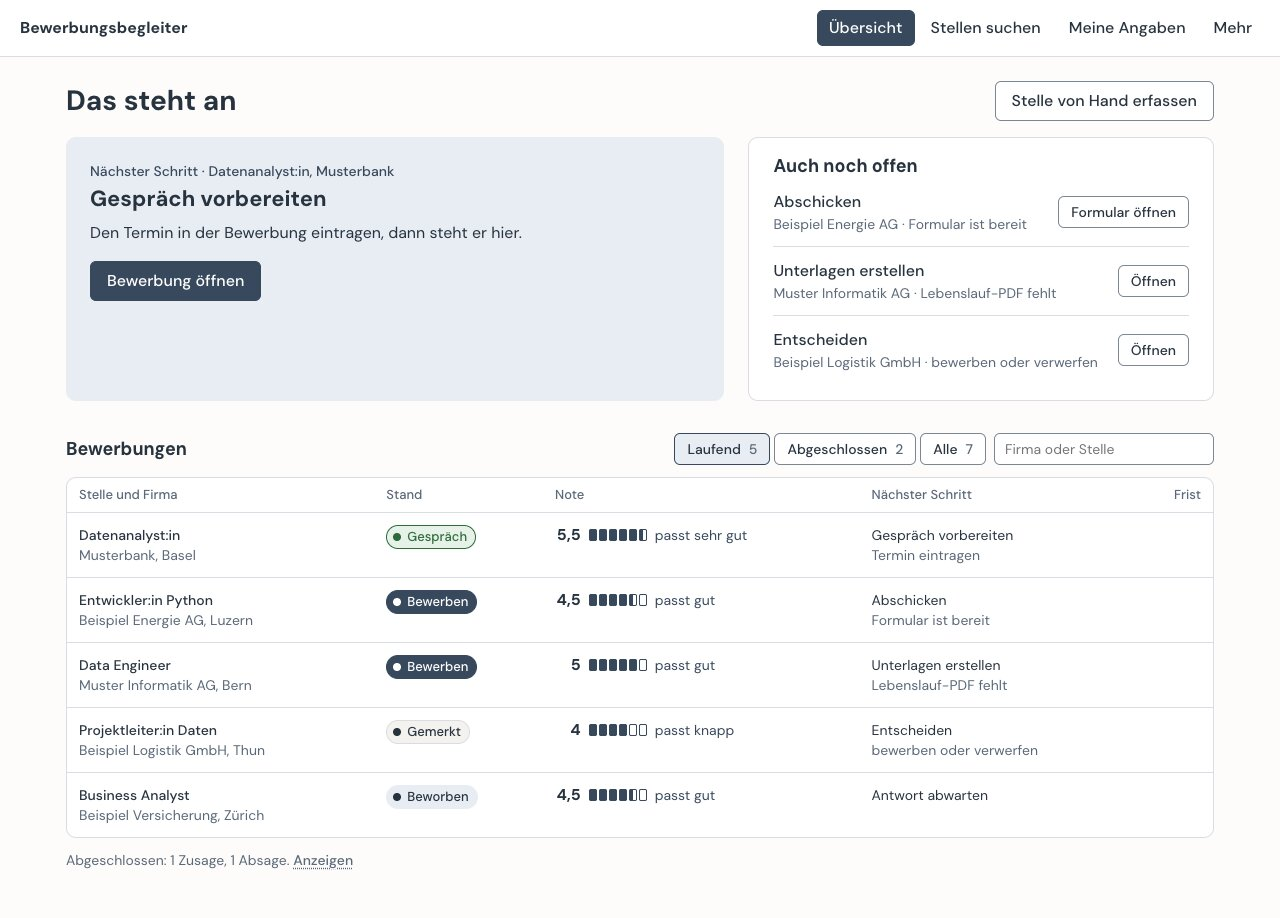
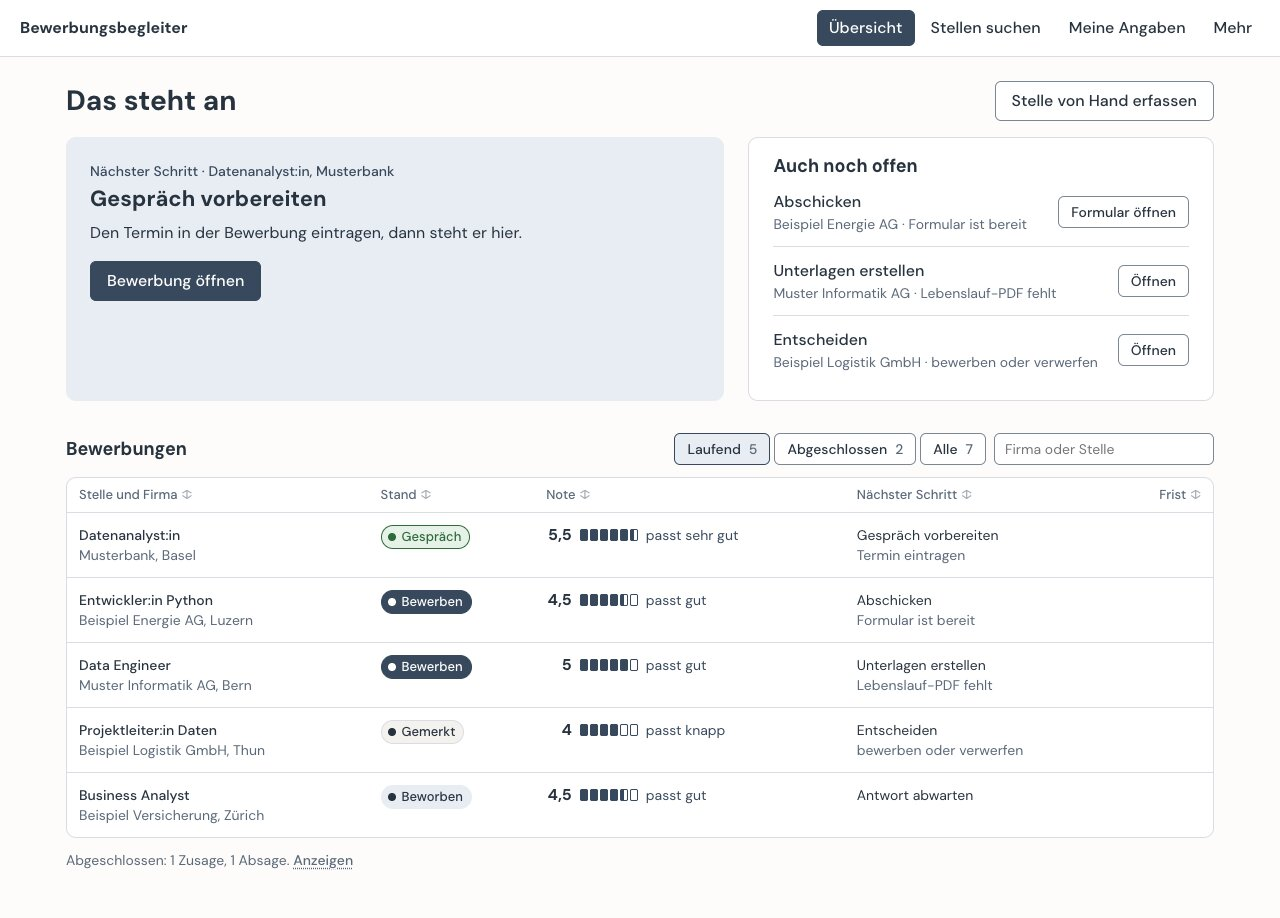
feat: sort the applications in the overview by any column (MIN-404)
A click on a heading sorts by that column, a second one turns the direction,
a third goes back to the order of the app. Missing grades and dates stay at
the bottom, the status follows the course of an application, and the choice
stays when going to another page, like the view and the search.

Claude-Session: https://claude.ai/code/session_01WgFHS5MLF7RQbuiBw169Uz

diff --git a/bewerbungen/seiten/uebersicht.js b/bewerbungen/seiten/uebersicht.js
@@ -17,6 +17,7 @@
   const ANSWER_TIMEOUT_MS = 60000;
   const ANSICHT = "uebersicht.ansicht";  // view, search and scroll position stay when going to another page
   const ANSICHTEN = ["laufend", "abgeschlossen", "alle"];
+  const ARIA_SORT = { auf: "ascending", ab: "descending" };
   const MAX_AUCH = 3;
   const GESCHLOSSEN_WORT = { Zusage: ["Zusage", "Zusagen"], Absage: ["Absage", "Absagen"], Verworfen: ["verworfen", "verworfen"],
                              "Zurückgezogen": ["zurückgezogen", "zurückgezogen"] };
@@ -33,6 +34,7 @@
   let erinnerung = null;
   let neueTreffer = null;  // { anzahl, letzte } or null
   let ansicht = "laufend";
+  let sortierung = null;  // { spalte, richtung } or null for the order of the app
   let laufendeAnfrage = null;  // { ids } of the run waiting for the extension, for „Trotzdem öffnen“
   let answerTimer = null;
   let wiederhergestellt = false;
@@ -53,7 +55,7 @@
   function merken() {
     try {
       const scroll = wiederhergestellt ? Math.round(window.scrollY) : gemerkt().scroll;
-      localStorage.setItem(ANSICHT, JSON.stringify({ ansicht, suche: $("suche").value, scroll }));
+      localStorage.setItem(ANSICHT, JSON.stringify({ ansicht, suche: $("suche").value, scroll, sortierung }));
     } catch { /* without storage the default view applies */ }
   }
 
@@ -61,9 +63,9 @@
     try {
       const a = JSON.parse(localStorage.getItem(ANSICHT) || "{}");
       return { ansicht: ANSICHTEN.includes(a.ansicht) ? a.ansicht : "laufend", suche: typeof a.suche === "string" ? a.suche : "",
-               scroll: Number.isFinite(a.scroll) && a.scroll > 0 ? a.scroll : 0 };
+               scroll: Number.isFinite(a.scroll) && a.scroll > 0 ? a.scroll : 0, sortierung: L.gueltigeSortierung(a.sortierung) };
     } catch {
-      return { ansicht: "laufend", suche: "", scroll: 0 };
+      return { ansicht: "laufend", suche: "", scroll: 0, sortierung: null };
     }
   }
 
@@ -111,7 +113,11 @@
   }
 
   function zeigeListe() {
-    const gezeigte = L.gefiltert(zeilen, ansicht, $("suche").value);
+    const gezeigte = L.sortiert(L.gefiltert(zeilen, ansicht, $("suche").value), sortierung);
+    for (const kopf of document.querySelectorAll("th[data-spalte]")) {
+      if (sortierung?.spalte === kopf.dataset.spalte) kopf.setAttribute("aria-sort", ARIA_SORT[sortierung.richtung]);
+      else kopf.removeAttribute("aria-sort");
+    }
     for (const knopf of document.querySelectorAll("[data-ansicht]")) knopf.setAttribute("aria-pressed", String(knopf.dataset.ansicht === ansicht));
     for (const name of ANSICHTEN) document.querySelector(`[data-zahl=${name}]`).textContent = String(L.gefiltert(zeilen, name, "").length);
     $("liste").replaceChildren(...gezeigte.map(zeile));
@@ -124,6 +130,11 @@
     $("liste-fuss").replaceChildren(`Abgeschlossen: ${teile.join(", ")}. `,
       el("button", { type: "button", class: "link", onclick: () => waehleAnsicht("abgeschlossen") }, "Anzeigen"));
     merken();
+  }
+
+  function sortiereNach(spalte) {
+    sortierung = L.naechsteSortierung(sortierung, spalte);
+    zeigeListe();
   }
 
   function waehleAnsicht(name) {
@@ -374,6 +385,7 @@
   window.addEventListener("pagehide", merken);
   $("suche").addEventListener("input", zeigeListe);
   for (const knopf of document.querySelectorAll("[data-ansicht]")) knopf.addEventListener("click", () => waehleAnsicht(knopf.dataset.ansicht));
+  for (const kopf of document.querySelectorAll("th[data-spalte]")) kopf.querySelector("button").addEventListener("click", () => sortiereNach(kopf.dataset.spalte));
   $("rav-hinweis-knopf").addEventListener("click", e => {
     const offen = erinnerung ? erinnerung.ids.filter(id => ravGruende.get(id) === null) : [];
     startRav(offen.slice(0, maxRav), e.currentTarget);
@@ -400,6 +412,7 @@
     const ansichtGemerkt = gemerkt();
     ansicht = ansichtGemerkt.ansicht;
     $("suche").value = ansichtGemerkt.suche;
+    sortierung = ansichtGemerkt.sortierung;
     satz = await textsatz();
     await laden();
     requestAnimationFrame(() => { window.scrollTo(0, ansichtGemerkt.scroll); wiederhergestellt = true; });

diff --git a/bewerbungen/seiten/uebersicht-logik.js b/bewerbungen/seiten/uebersicht-logik.js
@@ -71,6 +71,48 @@
       && (!wort || `${b.firma} ${b.stelle} ${b.notiz || ""}`.toLowerCase().includes(wort)));
   }
 
+  // Sorting by a column (MIN-404). A value of null means nothing to compare: it stays at the bottom in both directions.
+  const VERLAUF = ["Gemerkt", "Bewerben", "Beworben", "Gespräch", "Zusage", "Absage", "Zurückgezogen", "Verworfen"];
+  const position = wert => (wert < 0 ? null : wert);
+  const SPALTEN = {
+    stelle: z => z.bewerbung.stelle || null,
+    stand: z => position(VERLAUF.indexOf(z.bewerbung.status)),
+    note: z => (typeof z.bewerbung.passung === "number" ? z.bewerbung.passung : null),
+    schritt: z => RANG[z.schritt.art] ?? null,
+    frist: z => z.schritt.frist || null,
+  };
+  const ZUERST_ABSTEIGEND = ["note"];  // the best grade first
+  const GEGENTEIL = { auf: "ab", ab: "auf" };
+
+  function vergleicheWerte(a, b) {
+    return typeof a === "number" ? a - b : a.localeCompare(b, "de", { sensitivity: "base" });
+  }
+
+  /** A copy of the rows by the chosen column; without one, or with equal values, the order of the app stays. */
+  function sortiert(zeilen, sortierung) {
+    const wert = sortierung && SPALTEN[sortierung.spalte];
+    if (!wert) return zeilen;
+    const zeichen = sortierung.richtung === "ab" ? -1 : 1;
+    return [...zeilen].sort((a, b) => {
+      const [x, y] = [wert(a), wert(b)];
+      if (x === null || y === null) return (x === null) - (y === null);
+      return zeichen * vergleicheWerte(x, y);
+    });
+  }
+
+  /** What a click on a column heading does: first direction, the other one, back to the order of the app. */
+  function naechsteSortierung(aktuell, spalte) {
+    const erste = ZUERST_ABSTEIGEND.includes(spalte) ? "ab" : "auf";
+    if (aktuell?.spalte !== spalte) return { spalte, richtung: erste };
+    return aktuell.richtung === erste ? { spalte, richtung: GEGENTEIL[erste] } : null;
+  }
+
+  /** A sorting from the browser's storage, if it is one this page knows. */
+  function gueltigeSortierung(wert) {
+    return wert && Object.hasOwn(SPALTEN, wert.spalte ?? "") && Object.hasOwn(GEGENTEIL, wert.richtung ?? "")
+      ? { spalte: wert.spalte, richtung: wert.richtung } : null;
+  }
+
   /** „Abgeschlossen: 1 Zusage, 5 Absagen, 1 zurückgezogen.“ — counts per status of what the view „Abgeschlossen“ shows. */
   function abgeschlossenZaehlen(zeilen) {
     const zahl = {};
@@ -97,7 +139,7 @@
     return alle.slice(0, hoechstens);
   }
 
-  const logik = { LAUFEND, NACHFRAGEN_NACH_TAGEN, datum, plusTage, laufend, naechsterSchritt, mitSchritten, gefiltert, abgeschlossenZaehlen, stehtAn };
+  const logik = { LAUFEND, NACHFRAGEN_NACH_TAGEN, datum, plusTage, laufend, naechsterSchritt, mitSchritten, gefiltert, sortiert, naechsteSortierung, gueltigeSortierung, abgeschlossenZaehlen, stehtAn };
   if (typeof module !== "undefined") module.exports = logik;
   else global.UebersichtLogik = logik;
 })(typeof window !== "undefined" ? window : globalThis);

diff --git a/bewerbungen/seiten/stil.css b/bewerbungen/seiten/stil.css
@@ -431,6 +431,13 @@ textarea.input { min-height: 120px; resize: vertical; }
 .table tbody tr:last-child td { border-bottom: 0; }
 .table tbody tr:hover { background: var(--surface-subtle); }
 .table tbody tr[aria-selected="true"] { background: var(--accent-subtle); }
+.table__sort { display: inline; min-height: 0; border: 0; background: none; padding: 0; color: inherit; font: inherit; text-align: inherit; cursor: pointer; white-space: nowrap; }
+.table__sort:hover { background: none; color: var(--accent); }
+.table__sort::after { content: "↕"; margin-left: var(--space-1); color: var(--text-muted); opacity: .55; }
+th[aria-sort] .table__sort { color: var(--text-strong); }
+th[aria-sort] .table__sort::after { color: var(--text-strong); opacity: 1; }
+th[aria-sort="ascending"] .table__sort::after { content: "↑"; }
+th[aria-sort="descending"] .table__sort::after { content: "↓"; }
 .table__main { display: block; font-weight: 500; color: var(--text-strong); }
 .table__sub { display: block; color: var(--text-muted); }
 .table__next { color: var(--text-strong); }

diff --git a/bewerbungen/seiten/uebersicht.html b/bewerbungen/seiten/uebersicht.html
@@ -82,7 +82,7 @@
     <p id="nichts-gefunden" class="overview__empty" hidden>Keine Bewerbung passt zu dieser Suche.</p>
     <div class="table-wrap" id="tabelle">
       <table class="table">
-        <thead><tr><th data-text="uebersicht.spalte">Stelle und Firma</th><th>Stand</th><th>Note</th><th>Nächster Schritt</th><th class="num">Frist</th></tr></thead>
+        <thead><tr><th data-spalte="stelle"><button type="button" class="table__sort" data-text="uebersicht.spalte">Stelle und Firma</button></th><th data-spalte="stand"><button type="button" class="table__sort">Stand</button></th><th data-spalte="note"><button type="button" class="table__sort">Note</button></th><th data-spalte="schritt"><button type="button" class="table__sort">Nächster Schritt</button></th><th class="num" data-spalte="frist"><button type="button" class="table__sort">Frist</button></th></tr></thead>
         <tbody id="liste"></tbody>
       </table>
     </div>
